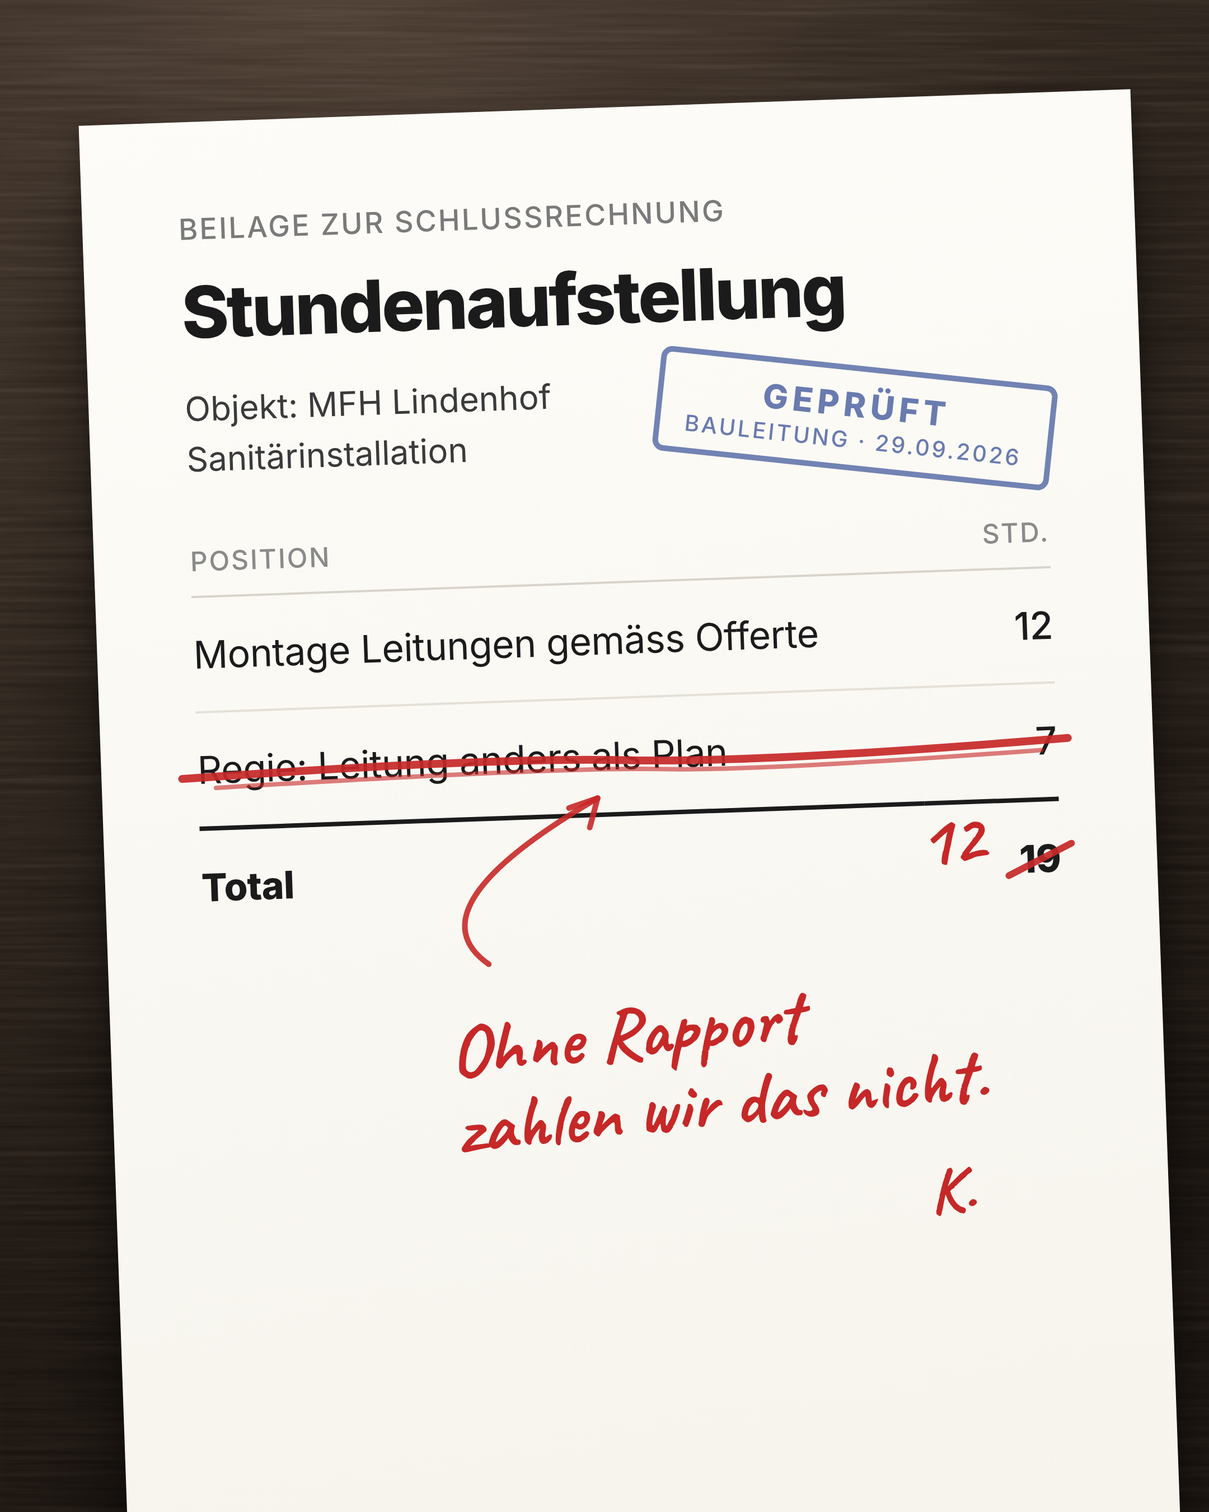
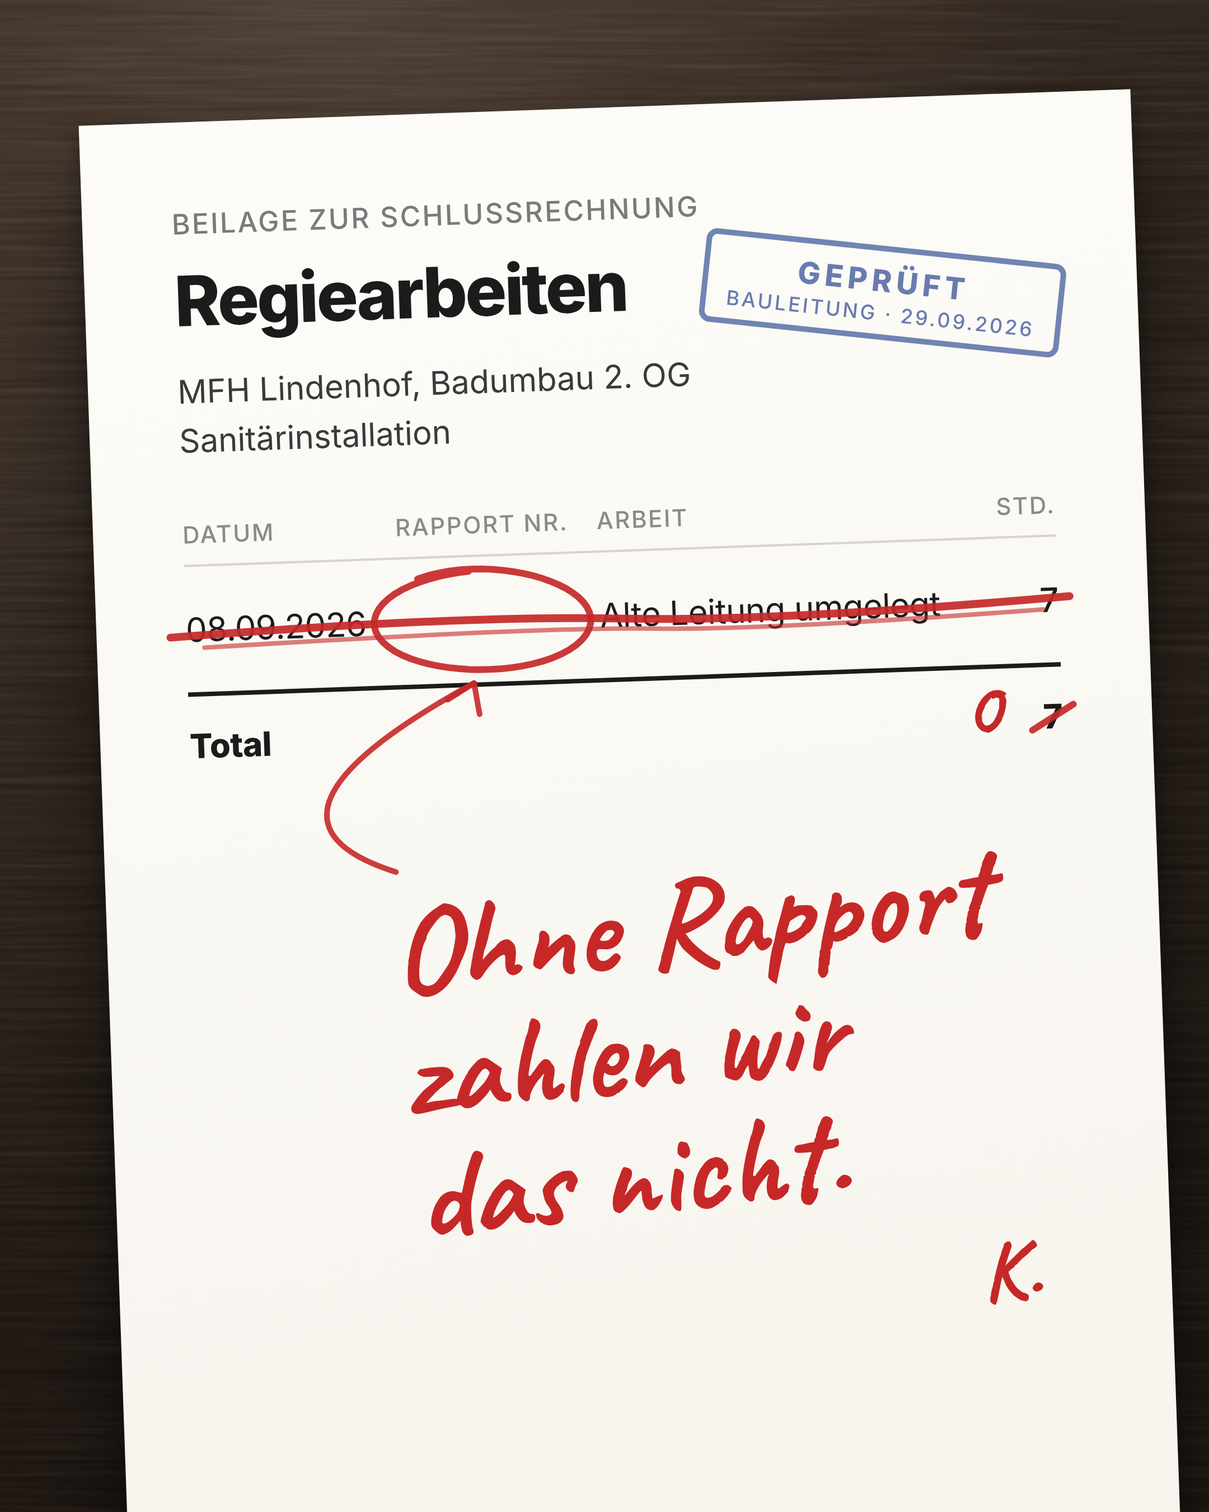
Regierapport-Post nach Expertenrunde neu gebaut, Bild als Regieliste
Drei Gutachten (Reichweite, Sanitaer-Inhaber, Lektorat). Prognose fuer
die alte Fassung nur 1'000 bis 5'000 Impressions.

Text:
- Zeile zwei: der bezahlte Lohn statt der Nachkalkulation, die
  fachlich nicht stimmte
- kalkuliert statt offeriert, Badumbau statt ganzes MFH, Wand
  aufgespitzt, Wand nach 3 Wochen zu und nicht mehr pruefbar
- Angebotszeile konkret: Monteur arbeitet wie bisher, spricht danach
  ins Handy, Kurt hat den Rapport am selben Abend zum Visieren
- Schlussfrage fuer Handwerker und Bauleitung
- 981 Zeichen, 3 Kommas, 1 Frage

Bild:
- Regieliste statt Stundenaufstellung, Rapportfeld leer und rot
  eingekreist, Pfeil darauf, Total 7 auf 0
- rote Handschrift doppelt so gross, Stempel neben dem Titel

Lernprotokoll: Regeln 40 bis 42.

Claude-Session: https://claude.ai/code/session_011uqJThEvfyZaZ27wjBcmdt

diff --git a/fotos/bild-schlussrechnung.html b/fotos/bild-schlussrechnung.html
@@ -13,26 +13,28 @@ svg.grain{position:absolute;left:0;top:0;width:1080px;height:1350px;mix-blend-mo
  background:linear-gradient(172deg,#fdfcf8 0%,#f6f3ec 100%);
  transform-origin:50% 0;
  box-shadow:0 46px 90px rgba(0,0,0,.55),0 8px 18px rgba(0,0,0,.35);
- padding:80px 86px;color:#1b1b1b;}
-.beil{font-size:26px;font-weight:500;letter-spacing:1.6px;text-transform:uppercase;color:#7a7a7a;}
-.titel{font-size:64px;font-weight:800;letter-spacing:-2px;margin-top:20px;}
-.meta{font-size:30px;font-weight:400;color:#3a3a3a;margin-top:26px;line-height:1.5;}
-table{width:100%;border-collapse:collapse;margin-top:54px;}
-th{font-size:24px;font-weight:500;letter-spacing:1.4px;text-transform:uppercase;color:#8a8a8a;
- text-align:left;padding:0 0 16px;border-bottom:2px solid #d8d4cb;}
-th.h,td.h{text-align:right;width:120px;}
-td{font-size:34px;font-weight:400;letter-spacing:-.3px;padding:30px 0;border-bottom:2px solid #e4e0d7;}
-td.h{font-weight:500;}
-tr.tot td{font-weight:800;border-bottom:none;border-top:4px solid #1b1b1b;}
-.stamp{position:absolute;right:78px;top:238px;transform:rotate(8deg);
- border:5px solid rgba(29,58,138,.62);border-radius:10px;padding:12px 22px 10px;text-align:center;
+ padding:76px 80px;color:#1b1b1b;}
+.beil{font-size:25px;font-weight:500;letter-spacing:1.6px;text-transform:uppercase;color:#7a7a7a;}
+.titel{font-size:62px;font-weight:800;letter-spacing:-2px;margin-top:16px;}
+.meta{font-size:29px;font-weight:400;color:#3a3a3a;margin-top:22px;line-height:1.5;}
+table{width:100%;border-collapse:collapse;margin-top:50px;}
+th{font-size:21px;font-weight:500;letter-spacing:1.3px;text-transform:uppercase;color:#8a8a8a;
+ text-align:left;padding:0 0 14px;border-bottom:2px solid #d8d4cb;white-space:nowrap;}
+td{font-size:30px;font-weight:400;letter-spacing:-.3px;padding:38px 0;border-bottom:2px solid #e4e0d7;vertical-align:middle;}
+.c1{width:190px;} .c2{width:180px;} .c4{width:70px;text-align:right;}
+td.c4{font-weight:500;}
+tr.tot td{font-weight:800;border-bottom:none;border-top:4px solid #1b1b1b;padding:26px 0;}
+.leer{display:inline-block;width:120px;height:4px;}
+.stamp{position:absolute;right:66px;top:132px;transform:rotate(8deg);
+ border:5px solid rgba(29,58,138,.62);border-radius:10px;padding:10px 18px 8px;text-align:center;
  color:rgba(29,58,138,.66);}
-.stamp .a{font-size:30px;font-weight:800;letter-spacing:4px;}
-.stamp .b{font-size:20px;font-weight:500;letter-spacing:2px;margin-top:2px;}
+.stamp .a{font-size:27px;font-weight:800;letter-spacing:4px;}
+.stamp .b{font-size:18px;font-weight:500;letter-spacing:2px;margin-top:2px;}
 .note{position:absolute;font-family:'Caveat',cursive;font-weight:700;color:#c62828;
- transform-origin:0 0;transform:rotate(-4deg);line-height:1.05;}
-#n1{font-size:66px;}
-#n2{font-size:64px;}
+ transform-origin:0 0;line-height:.98;}
+#n1{font-size:112px;transform:rotate(-4deg);}
+#n3{font-size:76px;transform:rotate(-4deg);}
+#n2{font-size:70px;}
 svg.mk{position:absolute;left:0;top:0;width:940px;height:1420px;overflow:visible;pointer-events:none;}
 </style></head><body>
 <div class="s">
@@ -44,18 +46,17 @@ svg.mk{position:absolute;left:0;top:0;width:940px;height:1420px;overflow:visible
 
   <div class="paper" id="paper">
     <div class="beil">Beilage zur Schlussrechnung</div>
-    <div class="titel">Stundenaufstellung</div>
-    <div class="meta">Objekt: MFH Lindenhof<br>Sanit&#228;rinstallation</div>
+    <div class="titel">Regiearbeiten</div>
+    <div class="meta">MFH Lindenhof, Badumbau 2. OG<br>Sanit&#228;rinstallation</div>
     <table>
-      <tr><th>Position</th><th class="h">Std.</th></tr>
-      <tr><td>Montage Leitungen gem&#228;ss Offerte</td><td class="h">12</td></tr>
-      <tr id="r2"><td id="r2t">Regie: Leitung anders als Plan</td><td class="h" id="r2h">7</td></tr>
-      <tr class="tot"><td>Total</td><td class="h"><span id="tot">19</span></td></tr>
+      <tr><th class="c1">Datum</th><th class="c2">Rapport Nr.</th><th>Arbeit</th><th class="c4">Std.</th></tr>
+      <tr><td class="c1" id="d">08.09.2026</td><td class="c2"><span class="leer" id="leer"></span></td><td id="arb">Alte Leitung umgelegt</td><td class="c4" id="h">7</td></tr>
+      <tr class="tot"><td class="c1">Total</td><td></td><td></td><td class="c4"><span id="tot">7</span></td></tr>
     </table>
     <div class="stamp"><div class="a">GEPR&#220;FT</div><div class="b">BAULEITUNG &#183; 29.09.2026</div></div>
-    <div class="note" id="n1">Ohne Rapport<br>zahlen wir das nicht.</div>
-    <div class="note" id="n3" style="font-size:58px">K.</div>
-    <div class="note" id="n2">12</div>
+    <div class="note" id="n1">Ohne Rapport<br>zahlen wir<br>das nicht.</div>
+    <div class="note" id="n3">K.</div>
+    <div class="note" id="n2">0</div>
     <svg class="mk" id="mk" viewBox="0 0 940 1420"></svg>
   </div>
 </div>
@@ -65,37 +66,45 @@ document.fonts.ready.then(()=>{
   const paper=document.getElementById('paper');
   const P=paper.getBoundingClientRect();
   const rel=el=>{const r=el.getBoundingClientRect();return {l:r.left-P.left,t:r.top-P.top,r:r.right-P.left,b:r.bottom-P.top,w:r.width,h:r.height};};
-  const row=rel(document.getElementById('r2t')), hrs=rel(document.getElementById('r2h'));
+  const d=rel(document.getElementById('d')), leer=rel(document.getElementById('leer')).l, h=rel(document.getElementById('h'));
+  const leerCell=rel(document.getElementById('leer').parentElement);
   const tot=rel(document.getElementById('tot'));
-
-  // 1. Regiezeile von Hand durchgestrichen, zwei leicht versetzte Striche
-  const y=row.t+row.h/2+3, x1=row.l-14, x2=hrs.r+10, mid=(x1+x2)/2;
-  const s1=`M ${x1} ${y+4} Q ${mid-120} ${y-6} ${mid} ${y+1} T ${x2} ${y-5}`;
-  const s2=`M ${x1+30} ${y+13} Q ${mid-60} ${y+5} ${mid+30} ${y+10} T ${x2-24} ${y+5}`;
-
-  // 2. Total 19 schraeg durchgestrichen
-  const t1=`M ${tot.l-10} ${tot.b-6} L ${tot.r+10} ${tot.t+8}`;
-
-  // 3. Notiz und Kuerzel unter die Tabelle setzen, die 12 links neben das gestrichene Total
-  const n1=document.getElementById('n1'), n2=document.getElementById('n2'), n3=document.getElementById('n3');
-  const tableB=rel(document.querySelector('table')).b;
-  n1.style.left='300px'; n1.style.top=(tableB+70)+'px';
-  const N1=rel(n1);
-  n3.style.left=(N1.r-60)+'px'; n3.style.top=(N1.b+6)+'px';
-  n2.style.left=(tot.l-92)+'px'; n2.style.top=(tot.t-30)+'px';
-
-  // 4. Pfeil von der Notiz hoch zur gestrichenen Zeile
-  const ax=N1.l+40, ay=N1.t-10, bx=row.l+row.w*0.55, by=y+34;
-  const arrow=`M ${ax} ${ay} Q ${ax-70} ${(ay+by)/2+20} ${bx} ${by}`;
-  const head=`M ${bx-26} ${by+8} L ${bx} ${by} L ${bx-8} ${by+26}`;
-
   const red='#c62828';
-  document.getElementById('mk').innerHTML=
-   `<path d="${s1}" fill="none" stroke="${red}" stroke-width="7" stroke-linecap="round" opacity=".92"/>`+
-   `<path d="${s2}" fill="none" stroke="${red}" stroke-width="4" stroke-linecap="round" opacity=".6"/>`+
-   `<path d="${t1}" fill="none" stroke="${red}" stroke-width="6" stroke-linecap="round" opacity=".92"/>`+
-   `<path d="${arrow}" fill="none" stroke="${red}" stroke-width="5" stroke-linecap="round" opacity=".9"/>`+
-   `<path d="${head}" fill="none" stroke="${red}" stroke-width="5" stroke-linecap="round" stroke-linejoin="round" opacity=".9"/>`;
+  let svg='';
+
+  // 1. Die Regiezeile von Hand durchgestrichen
+  const y=d.t+d.h/2+2, x1=d.l-14, x2=h.r+10, mid=(x1+x2)/2;
+  svg+=`<path d="M ${x1} ${y+4} Q ${mid-140} ${y-7} ${mid} ${y+1} T ${x2} ${y-5}" fill="none" stroke="${red}" stroke-width="7" stroke-linecap="round" opacity=".92"/>`;
+  svg+=`<path d="M ${x1+30} ${y+14} Q ${mid-70} ${y+6} ${mid+30} ${y+11} T ${x2-24} ${y+6}" fill="none" stroke="${red}" stroke-width="4" stroke-linecap="round" opacity=".6"/>`;
+
+  // 2. Das leere Feld "Rapport Nr." rot eingekreist
+  const cx=leerCell.l+leerCell.w*0.42, cy=leerCell.t+leerCell.h/2, rx=leerCell.w*0.52, ry=leerCell.h*0.40;
+  const pts=[];
+  for(let i=0;i<=64;i++){
+    const a=-2.2+(i/64)*Math.PI*2*1.08;
+    const w=1+0.04*Math.sin(a*2.3+0.7);
+    pts.push((i?'L':'M')+(cx+Math.cos(a)*rx*w).toFixed(1)+' '+(cy+Math.sin(a)*ry*w).toFixed(1));
+  }
+  svg+=`<path d="${pts.join(' ')}" fill="none" stroke="${red}" stroke-width="6" stroke-linecap="round" opacity=".92"/>`;
+
+  // 3. Total 7 schraeg gestrichen, daneben die 0
+  svg+=`<path d="M ${tot.l-10} ${tot.b-6} L ${tot.r+10} ${tot.t+8}" fill="none" stroke="${red}" stroke-width="6" stroke-linecap="round" opacity=".92"/>`;
+  const n2=document.getElementById('n2');
+  n2.style.left=(tot.l-70)+'px'; n2.style.top=(tot.t-26)+'px';
+
+  // 4. Notiz gross ins untere Drittel, Kuerzel darunter rechts
+  const n1=document.getElementById('n1'), n3=document.getElementById('n3');
+  const tableB=rel(document.querySelector('table')).b;
+  n1.style.left='250px'; n1.style.top=(tableB+92)+'px';
+  const N1=rel(n1);
+  n3.style.left=(N1.r-40)+'px'; n3.style.top=(N1.b-6)+'px';
+
+  // 5. Pfeil von der Notiz hoch zum leeren Rapportfeld
+  const ax=N1.l+10, ay=N1.t+20, bx=cx-10, by=cy+ry+10;
+  svg+=`<path d="M ${ax} ${ay} Q ${ax-150} ${(ay+by)/2+30} ${bx} ${by}" fill="none" stroke="${red}" stroke-width="5" stroke-linecap="round" opacity=".9"/>`;
+  svg+=`<path d="M ${bx-24} ${by+14} L ${bx} ${by} L ${bx+4} ${by+28}" fill="none" stroke="${red}" stroke-width="5" stroke-linecap="round" stroke-linejoin="round" opacity=".9"/>`;
+
+  document.getElementById('mk').innerHTML=svg;
   paper.style.transform='rotate(-2deg)';
   window.__ok=true;
 });

diff --git a/posts/2026-10-06-regierapport.md b/posts/2026-10-06-regierapport.md
@@ -11,60 +11,80 @@ Dazu der Zielgruppen-Test vom 24.09.: "Drei Regierapporte ohne Visum, und die Ba
 
 «Ohne Rapport zahlen wir das nicht.»
 
-Der Bauleiter ist nicht kleinlich. Dir fehlt nur das Papier.
+Bezahlt hast du die 7 Stunden trotzdem. Deinem Monteur.
 
-Er heisst Kurt. Er visiert jeden Regierapport. Nur keinen, den es nicht gibt.
+Kurt ist Bauleiter und nicht kleinlich. Er visiert jeden Regierapport, den er bekommt.
 
-Am Dienstag merkt dein Monteur, dass die Leitung anders liegt als im Plan. Er löst es und arbeitet weiter.
+An einem Dienstag spitzt dein Monteur eine Wand auf. Die alte Leitung liegt anders als im Plan. Er löst es und arbeitet weiter.
 
-Den Rapport will er am Freitag schreiben. Am Freitag ist er schon auf der nächsten Baustelle.
+Den Rapport will er am Freitag schreiben. Da ist er schon auf der nächsten Baustelle.
 
-Offeriert waren 12 Stunden. Gebraucht hat er 19.
+Statt der kalkulierten 12 Stunden hat er 19 gebraucht.
 
-3 Wochen später kommt die Schlussrechnung zurück. Die 7 Stunden Regie sind rot durchgestrichen.
+3 Wochen später kommt die Schlussrechnung zurück. Die 7 Stunden Regie sind rot gestrichen. Die Wand ist zu. Prüfen kann Kurt nichts mehr.
 
-Du rufst Kurt an. Er ist freundlich. Und er bleibt beim Satz von oben.
+Du rufst ihn an. Er ist freundlich und bleibt bei seinem Satz.
 
-Beim nächsten Objekt offerierst du wieder 12 Stunden. Weil nirgends steht, dass es 19 waren.
+Ob Sanitär, Elektro oder Heizung. Ab der 2. Kolonne stehst du nicht mehr daneben.
 
-Ob Sanitär, Elektro oder Heizung. Ab der zweiten Kolonne stehst du nicht mehr daneben.
+Genau diesen Papierkram automatisiere ich. Dein Monteur arbeitet wie bisher und spricht danach ins Handy, was anders war. Mit Foto. Am selben Abend hat Kurt den Rapport zum Visieren.
 
-Genau das automatisiere ich. Den Rapport, die Offerte, das Nachfassen und die Rechnung. Die Arbeit bleibt beim Monteur. Das Papier nicht.
+Nach wie vielen Tagen ist ein Regierapport bei dir nichts mehr wert?
 
-Wie viele Tage liegen bei dir zwischen Regiearbeit und Rapport?
+## Expertenrunde 03.10. (Florian: "es soll wieder durch die Decke")
 
-## Formel-Check
+Drei Gutachten: Reichweite, Sanitaer-Inhaber mit 15 Mitarbeitenden, Lektorat. Alle drei waren sich in drei Punkten einig, die erste Fassung hatte sie falsch:
+1. DER VERLUST IST DER BEZAHLTE LOHN. "Beim naechsten Objekt offerierst du wieder 12 Stunden, weil nirgends steht, dass es 19 waren" war doppelt falsch: Die 19 stehen im Wochenrapport, und eine unvorhergesehene Abweichung gehoert nicht in die naechste Offerte. Neu steht der Lohn schon in Zeile zwei.
+2. DIE ANGEBOTSZEILE MUSS SAGEN, WIE DER RAPPORT ZUM BAULEITER KOMMT. Der Inhaber: "Florian schreibe ich, wenn drinsteht, wie der Rapport vom Handy zu Kurt kommt, ohne dass mein Monteur Neues lernen muss." Die Viererliste "klingt nach Prospekt". Darum diesmal konkret statt allgemein.
+3. "Beim Satz von oben" klang nach Chefetage. Jetzt "bei seinem Satz".
 
-1. Zeile eins, der Satz, mit dem der Verlust passiert: «Ohne Rapport zahlen wir das nicht.» Jeder Handwerker hat ihn schon gehoert. Universell genug fuer die Verteilung, jeder mit Stundenabrechnung versteht ihn.
-2. Ausrede weg, mit du: Jeder schimpft zuerst auf den Bauleiter. "Der Bauleiter ist nicht kleinlich. Dir fehlt nur das Papier."
-3. Gegenfigur mit Namen: Kurt. "Er visiert jeden Regierapport. Nur keinen, den es nicht gibt." Nicht dieselbe Beziehungszeile wie beim Architekten ("Ihr kennt euch seit Jahren"), damit es nicht nach Kopie aussieht.
-4. Zeitbeats: Dienstag, Freitag, 3 Wochen spaeter. Entlastung als Szene: "Er löst es und arbeitet weiter." Der Monteur hat alles richtig gemacht, nur das Papier fehlt.
-5. Rueckbezug: "Und er bleibt beim Satz von oben."
-6. Verlust waechst: ohne Rapport lernt die Nachkalkulation nichts, die naechste Offerte ist wieder zu knapp.
-7. Gewerke als Aufzaehlung, Groessenfilter "zweite Kolonne" (Regel 29).
-8. Angebot allgemein, wie Florian es am 24.09. wollte, mit Regel 39: was automatisiert wird (das Papier) und was bleibt (die Arbeit beim Monteur). Regel 22 in einem Satz.
-9. Zaehlfrage, gesichtswahrend: Man kann stolz "am selben Abend" antworten.
+Fachliche Korrekturen vom Sanitaer-Inhaber:
+- Mit Bauleiter offeriert man nach Ausmass oder pauschal, die Stunden sind die eigene Kalkulation. Darum "kalkuliert" statt "offeriert".
+- Ein ganzes MFH in 12 Stunden ist absurd, und der Werkvertrag steht nie in Stunden auf der Rechnung. Darum Badumbau im 2. OG und im Bild nur die Regieliste.
+- "Leitung anders als im Plan" glaubt man im Umbau, nicht im Neubau. Darum spitzt der Monteur eine Wand auf.
+- Kurt streicht nicht aus Prinzip: Nach 3 Wochen ist die Wand zu, pruefen kann er nichts mehr. Das macht ihn glaubwuerdig und erklaert, warum das Foto im Angebot zaehlt.
+- Visiert wird laufend, meist innert einer Woche. Beim kleinen Umbau wird Regie mit der Schlussrechnung verrechnet. Der Stempel passt.
 
-Regel 38 (Handwerks-Szene): In den ersten 140 Zeichen stehen Rapport, Bauleiter und Regierapport. Ein Berater liest mit, fuehlt sich aber nicht gemeint. Genau das ist gewollt.
+Vom Reichweiten-Experten:
+- Prognose fuer die alte Fassung: 1'000 bis 5'000 Impressions, viral nur mit rund 10 Prozent Wahrscheinlichkeit. Die viralen Posts lebten von Pointen, die jedes KMU teilt, und Berater haben sie weitergetragen. Regierapport, visieren und Kolonne sperren genau diese Verteiler aus.
+- Groesster Hebel: die Bauleitung mitreden lassen. Bauleiter, Projektleiter und Planer sind auf LinkedIn viel aktiver als Inhaber, und ihre Netzwerke sind voller Schweizer Handwerksbetriebe. Die neue Schlussfrage koennen beide Seiten mit einer Zahl beantworten, und die Zahlen gehen auseinander.
+- Bild: 7 von 10. Der fette Titel dominierte, die rote Notiz war duenn, das untere Fuenftel leer. Jetzt ist die Notiz doppelt so gross und das staerkste Element.
+
+Vom Lektorat:
+- 4 polierte Gegensaetze statt einem. Gebrochen: "Nur keinen, den es nicht gibt", "Offeriert/Gebraucht", "Die Arbeit bleibt beim Monteur. Das Papier nicht."
+- "Am Dienstag" haette am Posttag wie heute geklungen. Jetzt "An einem Dienstag".
+- "Das Papier nicht" versprach zu viel, einsprechen muss der Monteur trotzdem. Jetzt "arbeitet wie bisher und spricht danach ins Handy, was anders war".
+- Natuerlichkeit der alten Fassung: 55 von 100.
+
+## Formel-Check (neue Fassung)
+
+1. Zeile eins, der Satz des Verlusts: «Ohne Rapport zahlen wir das nicht.» Steht auch im Bild.
+2. Zeile zwei macht den Verlust groesser statt kleiner, mit du: "Bezahlt hast du die 7 Stunden trotzdem. Deinem Monteur."
+3. Gegenfigur mit Namen, Ausrede weg: "Kurt ist Bauleiter und nicht kleinlich."
+4. Zeitbeats: an einem Dienstag, am Freitag, 3 Wochen spaeter. Entlastung als Szene: "Er löst es und arbeitet weiter."
+5. Rueckbezug: "bleibt bei seinem Satz".
+6. Der Verlust ist doppelt: Lohn bezahlt, Regie gestrichen, und pruefen kann niemand mehr.
+7. Gewerke als Aufzaehlung, Schwelle "Ab der 2. Kolonne".
+8. Angebot konkret, mit Regel 39: der Monteur arbeitet wie bisher, das Papier entsteht nebenbei, Kurt hat es am selben Abend zum Visieren.
+9. Schlussfrage fuer beide Seiten, Handwerker und Bauleitung.
 
 ## Ehrlichkeit
 
-- 12 offeriert, 19 gebraucht: steht so im Protokoll. Die 7 Stunden sind die Differenz.
-- "Mehrstunden nur mit Regierapport verrechenbar": steht so im Protokoll. Darum stimmt "Dir fehlt nur das Papier".
-- Kurt, die Leitung, Dienstag, Freitag, die 3 Wochen und das Streichen sind erfundene Szene in der Du-Form. Der Post behauptet nicht, dass es beim Kunden vom 28.09. so passiert ist.
-- Eine Automation holt keine Unterschrift. Der Post verspricht darum nur, das Papier zu automatisieren, nicht das Visum. Was sie kann: der Rapport ist am selben Tag erfasst und beim Bauleiter, und es wird nachgefragt, bis er visiert ist.
-- "Zweite Kolonne" ist eine Schwelle, keine Zahl aus dem Protokoll.
+- 12 kalkuliert, 19 gebraucht: steht so im Protokoll vom 28.09. Die 7 Stunden sind die Differenz.
+- "Mehrstunden nur mit Regierapport verrechenbar": steht so im Protokoll.
+- Kurt, die Wand, Dienstag, Freitag, die 3 Wochen und das Streichen sind erfundene Szene in der Du-Form. Die Daten im Bild passen zur Szene: Regie am Dienstag 08.09., Rapport geplant fuer Freitag 11.09., Stempel am Dienstag 29.09., genau 3 Wochen.
+- Eine Automation holt keine Unterschrift. Der Post verspricht nur, dass Kurt den Rapport am selben Abend zum Visieren hat, nicht dass er ihn visiert.
 - Im Bild keine Frankenbetraege und keine Stundensaetze. Die Saetze aus dem Protokoll sind vertraulich.
 
-## Alternative Hooks
+## Alternative Hooks (vom Reichweiten-Experten)
 
-- «Die Regie streiche ich.»
-- «Hast du dafür einen Rapport?»
+- «Die 7 Stunden Regie streiche ich.» / Kurt ist nicht kleinlich. Deinen Rapport dazu hat er nie gesehen.
+- «Davon weiss ich nichts.» / Kurt lügt nicht. Deinen Regierapport dazu hat er nie bekommen. (am breitesten, Bild muesste neu)
 
 ## Bild
 
-fotos/bild-schlussrechnung.png — Stundenaufstellung zur Schlussrechnung auf dem Schreibtisch, leicht schraeg wie das Kuendigungsschreiben. Die Zeile "Regie: Leitung abweichend vom Plan, 7 Std." rot von Hand durchgestrichen, das Total 19 gestrichen und durch 12 ersetzt, daneben in roter Handschrift der Satz aus Zeile eins: "Ohne Rapport zahlen wir das nicht. K."
+fotos/bild-schlussrechnung.png — "Regiearbeiten, Beilage zur Schlussrechnung", MFH Lindenhof, Badumbau 2. OG. Eine Zeile: 08.09.2026, Rapport Nr. leer, "Alte Leitung umgelegt", 7 Std. Die Zeile rot gestrichen, das leere Rapportfeld rot eingekreist, ein Pfeil von der Notiz zum leeren Feld, Total 7 auf 0. Grosse rote Handschrift: "Ohne Rapport zahlen wir das nicht. K." Pruefstempel der Bauleitung neben dem Titel.
 
 ## Timing
 
-Dienstag, 06.10. Zwischen dem Monika-Post (01.10.) und diesem liegen 5 Tage. Das genuegt, auch wenn der Monika-Post noch waechst.
+Dienstag, 06.10.

diff --git a/wissen/lernprotokoll.md b/wissen/lernprotokoll.md
@@ -306,6 +306,12 @@ Zweiter Punkt: Der 200er hatte ein Foto, der 250er nicht. Schwacher Beleg, deckt
 39. DIE AUTOMATION ENTLASTET DIE FIGUR, SIE ERSETZT SIE NICHT (Kommentar 02.10.2026): Ein Leser schrieb unter den Monika-Post: "Witzig, wie du die Monika erst als Protagonistin etablierst und sie dann mit dem Satz 'Genau das automatisiere ich' komplett zum austauschbaren Wegwerfartikel machst." Das ist die gefaehrlichste Lesart, die ein Post von Florian haben kann. Der Inhaber haengt an seiner treuen Buerokraft, und die Buerokraft liest mit. Wer den Eindruck erweckt, Menschen wegzuautomatisieren, verliert beide.
     Regel: Wenn eine Figur mit Namen im Post vorkommt, sagt die Angebotszeile ausdruecklich, was automatisiert wird und was bleibt. Muster: "Ich automatisiere, was Monika von Hand tippt. Nicht Monika." Gilt fuer jede Figur: Monteur, Buerokraft, Lehrling, Bauleiter.
 
+40. DER VERLUST MUSS STIMMEN, SONST SPRINGT DER FACHMANN AB (Expertenrunde 03.10.2026): Die erste Fassung des Regierapport-Posts behauptete, ohne Rapport offeriere man beim naechsten Objekt wieder zu knapp. Der Sanitaer-Inhaber: Die 19 Stunden stehen im Wochenrapport, und eine unvorhergesehene Abweichung gehoert gar nicht in die naechste Offerte. Der echte Verlust ist einfacher und haerter: Den Lohn fuer die 7 Stunden hat er laengst bezahlt. Regel: Vor jedem Post fragen, was der Inhaber konkret verliert, und es in Geld oder Lohn ausdruecken, nicht in einer Kette von Folgen.
+
+41. ZWEI SEITEN IN DIE SCHLUSSFRAGE (Reichweiten-Experte 03.10.2026): Bauleiter, Projektleiter und Planer sind auf LinkedIn viel aktiver als Inhaber, und ihre Netzwerke sind voller Handwerksbetriebe. Eine Schlussfrage, die Handwerker UND Bauleitung mit einer Zahl beantworten koennen, holt beide in die Kommentare, und die Zahlen gehen auseinander. Das traegt einen Handwerks-Post ins Bau-Netzwerk statt ins Berater-Netzwerk. Beispiel: "Nach wie vielen Tagen ist ein Regierapport bei dir nichts mehr wert?"
+
+42. WIE KOMMT ES ZUM KUNDEN (Sanitaer-Inhaber 03.10.2026): Bei einem Post, der ein konkretes Papier betrifft, schreibt der Inhaber nur, wenn er liest, WIE es ohne Mehraufwand fuer seine Leute laeuft. Dort ist die konkrete Angebotszeile staerker als die allgemeine. Florians Vorliebe fuer die allgemeine Zeile ("ich automatisiere das") gilt fuer Themen ohne klaren Ablauf.
+
 ## Diagnose 120 (Post vom 29.09., "90 Stunden im Excel")
 
 Florian am 29.09.: "schlecht 120". Unter dem Median von 180, ein Sechstel der 700. Bitter, weil es der erste Post aus einer eigenen belegten Quelle war. Die Quelle war gut, der Post hat sie falsch benutzt. Vier Ursachen, nach Schadenswirkung:
